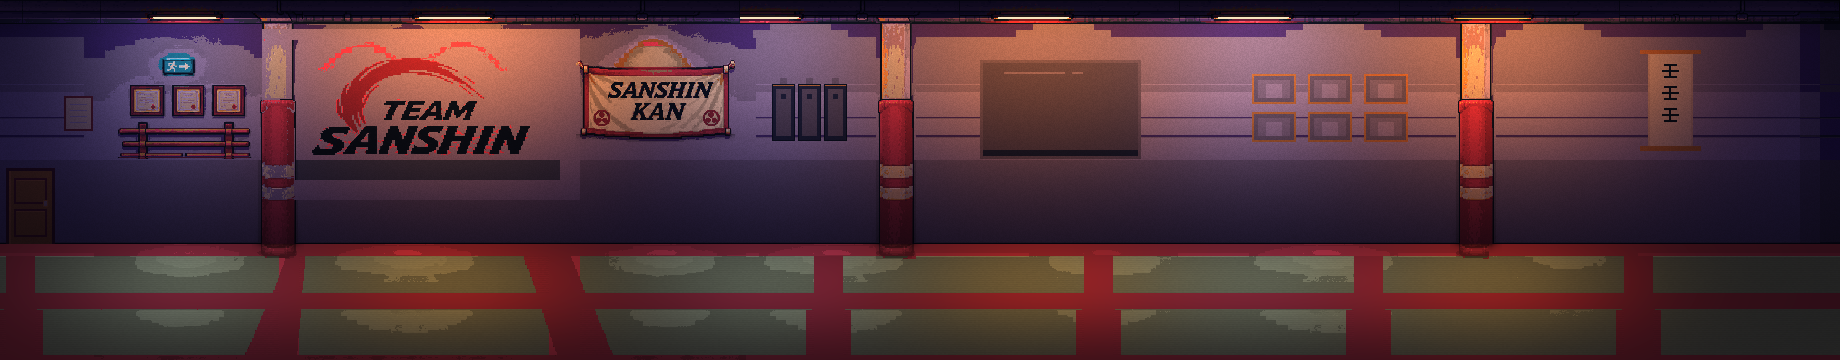
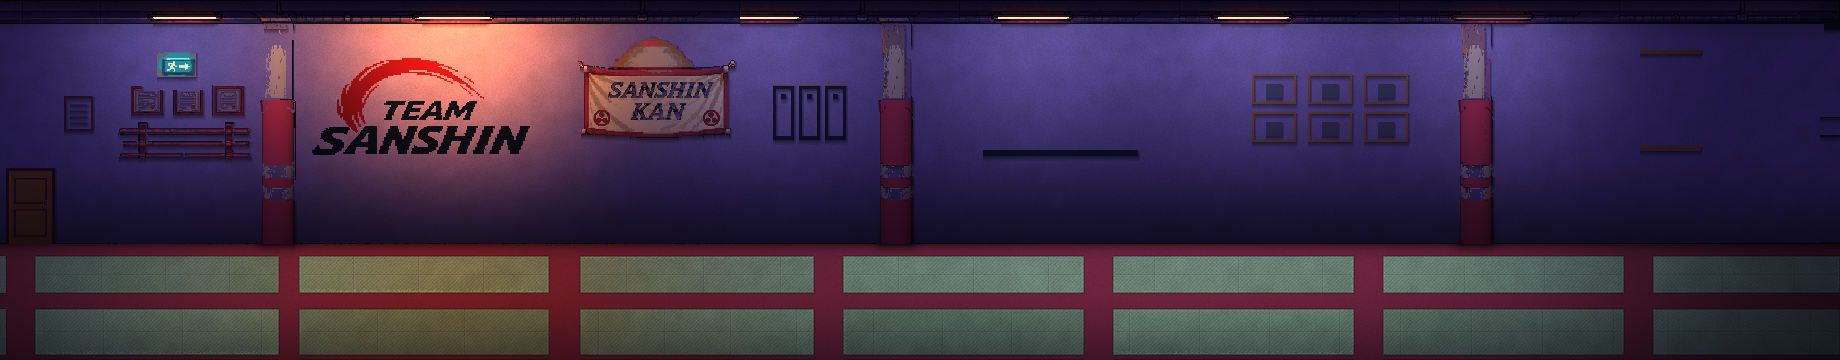
Draw the dojo floor as mat material and finish the room to the approved direction
Dojo revision 3, regenerated from the preserved approved dojo, targeting the
approved direction kept as docs/art/lighting/ref-dojo-approved-direction.webp.

The floor is now drawn from the mat grid rather than graded: sage-grey-green
mats with an embossed cross-hatch, low-frequency wear, grain and a tone per
mat, dark rim and light bevel at each edge, panel and mid seams, compressed
lighter edges on some mats; deep burgundy bands with a seam shadow; dry and
matte. Wall plaster is continuous (smooth gradient, mottling, grain) and is
recognised from the source's own wall palette so every wall object survives;
the painted halo behind TEAM SANSHIN and the glow behind the exit sign become
plaster, which also removes the rectangular boundary and the bar below the
lettering. Only the fixture above the emblem is amber; its cone is narrower
and stronger. Pillars get cylindrical shading and a dark edge; wall objects
cast drop shadows; a cool wall-base shadow and pillar contact shadows sit on
the floor. Floor light is continuous across mats and bands.

Street asset unchanged (6c0e2387). Geometry, object positions and alpha
unchanged. Validation: npm run check passed (86 tests, guard, build); a
keyboard-driven run on the page's own instance cleared the level, with clean
frames at the entrance, both fight locks and the boss area outside hit flashes.

diff --git a/docs/art/lighting/relight.html b/docs/art/lighting/relight.html
@@ -38,8 +38,8 @@ const DOJO_GEOMETRY = {
   matBorderCols: [[6, 34], [279, 298], [549, 579], [814, 842], [1084, 1112], [1354, 1382], [1624, 1652]],
   tubes: [
     { x0: 153, x1: 216, y0: 4, y1: 18, warm: false }, { x0: 419, x1: 489, y0: 4, y1: 18, warm: true },
-    { x0: 740, x1: 798, y0: 4, y1: 18, warm: false }, { x0: 998, x1: 1068, y0: 4, y1: 18, warm: true },
-    { x0: 1218, x1: 1288, y0: 4, y1: 18, warm: false }, { x0: 1456, x1: 1528, y0: 4, y1: 18, warm: true },
+    { x0: 740, x1: 798, y0: 4, y1: 18, warm: false }, { x0: 998, x1: 1068, y0: 4, y1: 18, warm: false },
+    { x0: 1218, x1: 1288, y0: 4, y1: 18, warm: false }, { x0: 1456, x1: 1528, y0: 4, y1: 18, warm: false },
   ],
 };
 window.RL = {

diff --git a/docs/art/lighting/README.md b/docs/art/lighting/README.md
@@ -41,23 +41,33 @@ facade, pavement and road:
   rows thick with varying width, offset and intensity, so there are substantial dark gaps
   and no ladder.
 
-## How the dojo light is built (revision 2)
+## How the dojo is built (revision 3)
 
-The dojo is lit as materials under light rather than graded: every pixel is classified into a
-material with its own albedo (indigo-leaning plaster for the walls, deep burgundy for the
-padded pillars and mat borders, muted ivory for the pillar bands, warm wood, sage-grey-green
-mats, cream banner cloth), shaded by the original painting, and then multiplied by the light:
-a dark indigo ambient that falls off toward the wall/floor junction and the ceiling, plus each
-ceiling fixture's cone down the wall and its soft pool on the floor. The fixture above TEAM
-SANSHIN is amber and stronger; the others are near neutral. The painted peach halo behind
-the emblem is replaced by plain wall so the pool is real light, and the lettering keeps its
-own dark navy. Floor pools cross mat borders instead of stopping at them. Contact shadows sit
-at the pillar bases, on the wall beside each pillar foot and under the banner; the plaster
-gets a faint noise and the mats a faint weave. Tube faces and the exit sign stay emissive.
-No neon and no wet reflections indoors.
+Target: `ref-dojo-approved-direction.webp` (approved 8 November 2026). The dojo is drawn as
+materials under light, from the preserved approved asset, keeping every object position:
+
+- **Wall**: continuous indigo plaster from a smooth vertical gradient with low-frequency
+  mottling and fine grain, independent of the source's flat colour bands. Plaster is
+  recognised by the source's own wall palette (the few exact colours that cover most of the
+  wall band), so wall objects of any colour survive. The painted peach halo behind TEAM
+  SANSHIN and the pale glow behind the exit sign become plain plaster; the lettering keeps its
+  dark navy and the red brush stroke its colour.
+- **Floor**: drawn from the mat grid, not graded. Sage-grey-green mats with an embossed
+  cross-hatch, low-frequency wear, grain and a tone of their own per mat; a dark rim and a
+  light bevel at each mat edge, panel seams and a mid seam inside each mat, and a lighter
+  compressed edge on some mats. Deep burgundy bands with a darker seam where they meet a
+  mat. Dry and matte.
+- **Light**: dark indigo ambient falling off toward the ceiling and the wall/floor junction;
+  each ceiling fixture casts a cone down the wall and a wide soft pool on the floor that
+  crosses mats and bands alike; only the fixture above TEAM SANSHIN is amber, the rest are
+  near neutral. The floor darkens toward the viewer.
+- **Materials**: cylindrical shading and a dark edge on the padded pillars, muted ivory
+  bands, warm wood, cream banner cloth. Tube faces and the exit sign stay emissive.
+- **Shadows**: a cool shadow along the wall base on the floor, contact shadows at the pillar
+  bases and beside each pillar foot, and drop shadows under every wall object.
 
 The in-game frame was verified pixel-identical to the loaded `dojo.png` outside the fighters,
-so the previous washed-out look was entirely in the asset, not a runtime tint.
+so the earlier washed-out look was entirely in the asset, not a runtime tint.
 
 ## Reproducing
 

diff --git a/assets/backgrounds/dojo.md b/assets/backgrounds/dojo.md
@@ -9,7 +9,7 @@ background loader is integrated (coordination with the other developer first).
 | File | `assets/backgrounds/dojo.png` |
 | Dimensions | 1840 x 360 px, RGBA, every pixel opaque |
 | Colours | 41 (the environment palette; none of the Tamas sheet's 30 colours) |
-| SHA-256 | a8a55e9162fe420483ae83d3c3fc0c774f9a70a27c6f8540f9f2ebaba894e034 (lighting pass revision 2 of 8 November 2026, material-based muted warm treatment; the approved full dojo it was made from is 8db7254d…, kept in `docs/art/lighting/source/`, see `docs/art/lighting/README.md`) |
+| SHA-256 | fa4048275f2f1064ab995de41fc67d46cc71e18010faae3d26e00d1b6a3f7b52 (lighting pass revision 3 of 8 November 2026, drawn mat material and indigo plaster to the approved direction `docs/art/lighting/ref-dojo-approved-direction.webp`; the approved full dojo it was made from is 8db7254d…, kept in `docs/art/lighting/source/`, see `docs/art/lighting/README.md`) |
 | Placement | world art column 2000 (world x 1000), row 0, drawn 1:1, never scaled |
 | Wall/floor boundary | art row 244 in every column; walkable band rows 244-341; front strip 342-359 |
 | Approved D1 checkpoint | columns 100-739, pixel-identical to `dojo-checkpoint.png` (SHA-256 dcbb8274...) |
